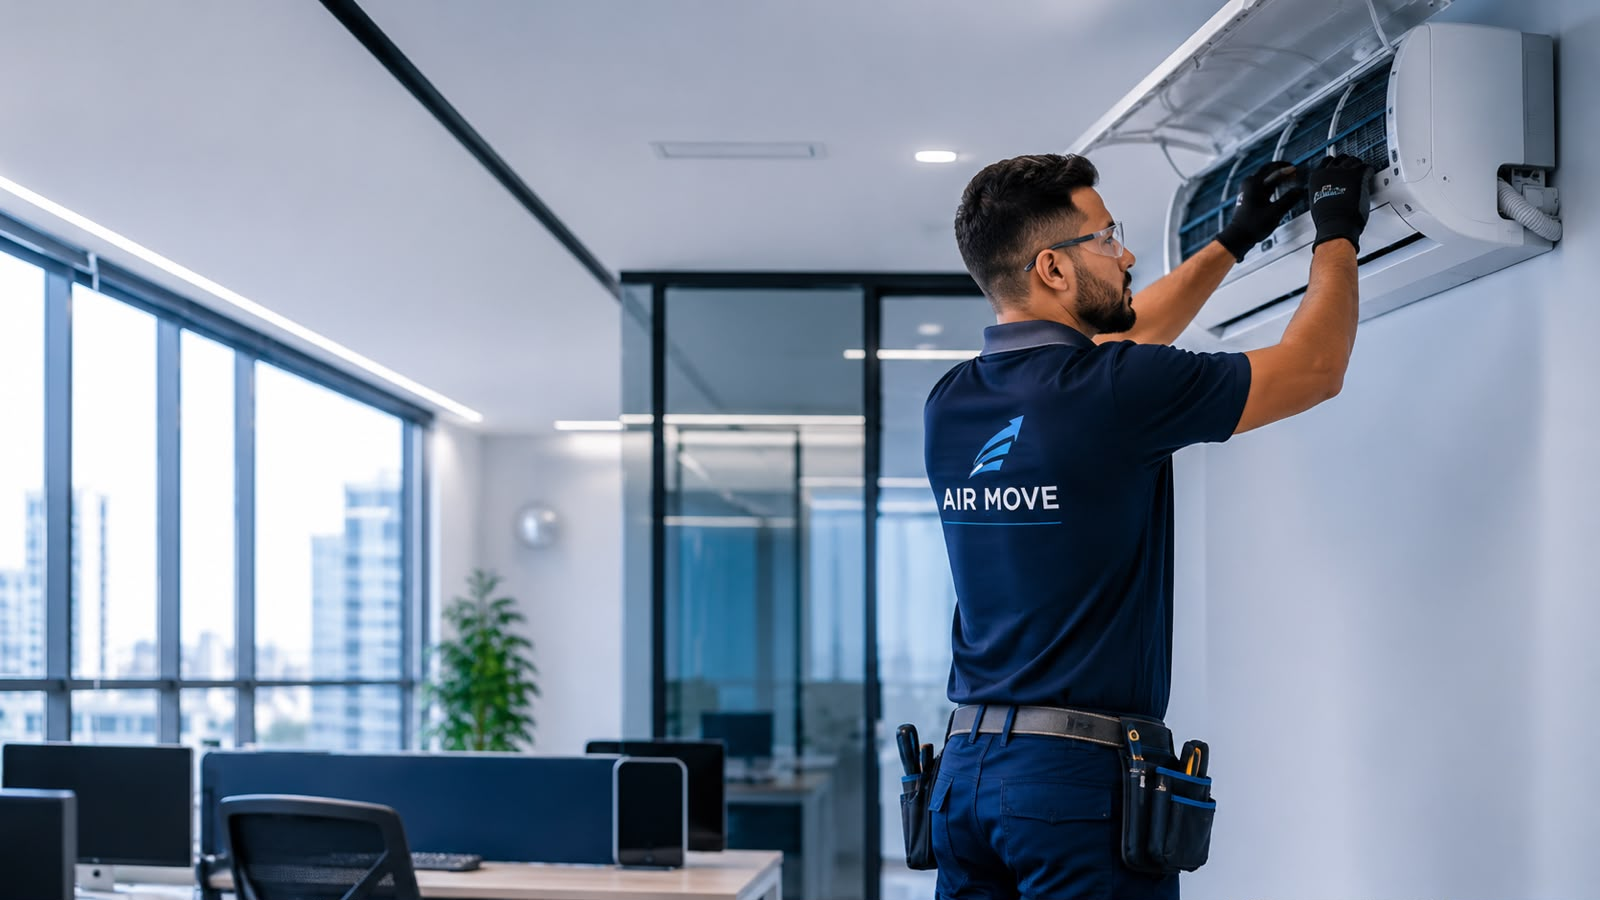
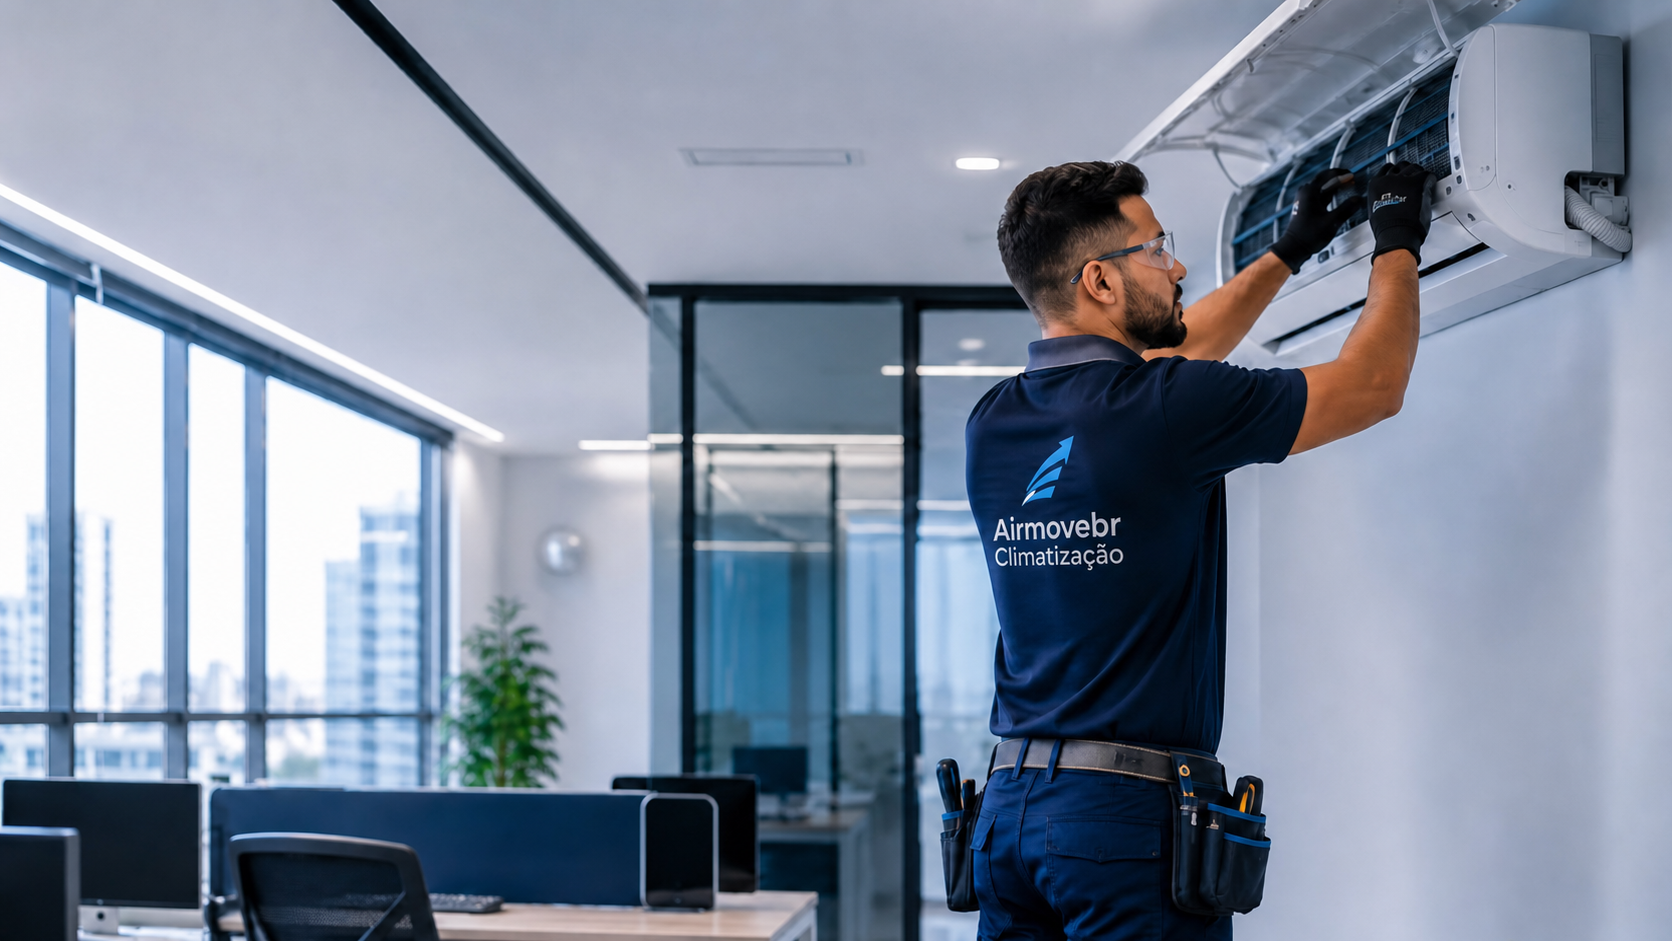
fix: atualizar imagens e ajustar CSS da landing page

diff --git a/apps/landing/css/style.css b/apps/landing/css/style.css
@@ -21,12 +21,12 @@ button, input, select, textarea { font: inherit; }
 .site-header { position: sticky; top: 0; z-index: 20; background: rgba(255, 255, 255, .96); border-bottom: 1px solid #e9eef3; backdrop-filter: blur(14px); }
 .header-inner { display: flex; align-items: center; gap: 28px; width: min(1240px, 100%); height: 78px; margin: auto; padding: 0 28px; }
 .brand { display: inline-flex; align-items: center; gap: 10px; min-width: max-content; }
-.brand-mark { display: grid; place-items: center; width: 37px; height: 37px; color: var(--blue); }
+.brand-mark { display: none; }
 .brand-mark svg { width: 34px; height: 34px; fill: none; stroke: currentColor; stroke-linecap: round; stroke-linejoin: round; stroke-width: 3.5; }
 .brand strong { display: block; font: 0/1 Montserrat, sans-serif; letter-spacing: 1px; }
-.brand strong::after { content: "AIR MOVE"; font-size: 20px; }
-.brand small { display: block; margin-top: 4px; color: #69798e; font-size: 0; letter-spacing: .42px; text-transform: uppercase; }
-.brand small::after { content: "Ar-Condicionado Sob Demanda"; font-size: 8px; }
+.brand strong::after { content: "Airmovebr"; font-size: 20px; }
+.brand small { display: block; margin-top: 4px; color: #69798e; font-size: 0; letter-spacing: .42px; text-transform: none; }
+.brand small::after { content: "Climatização"; font-size: 8px; }
 .main-nav { display: flex; align-items: center; gap: 24px; margin-left: auto; color: #536276; font-size: 12px; font-weight: 800; }
 .main-nav a { display: flex; align-items: center; height: 78px; border-bottom: 2px solid transparent; }
 .main-nav a:hover, .main-nav .active { color: var(--blue); border-color: var(--blue); }
